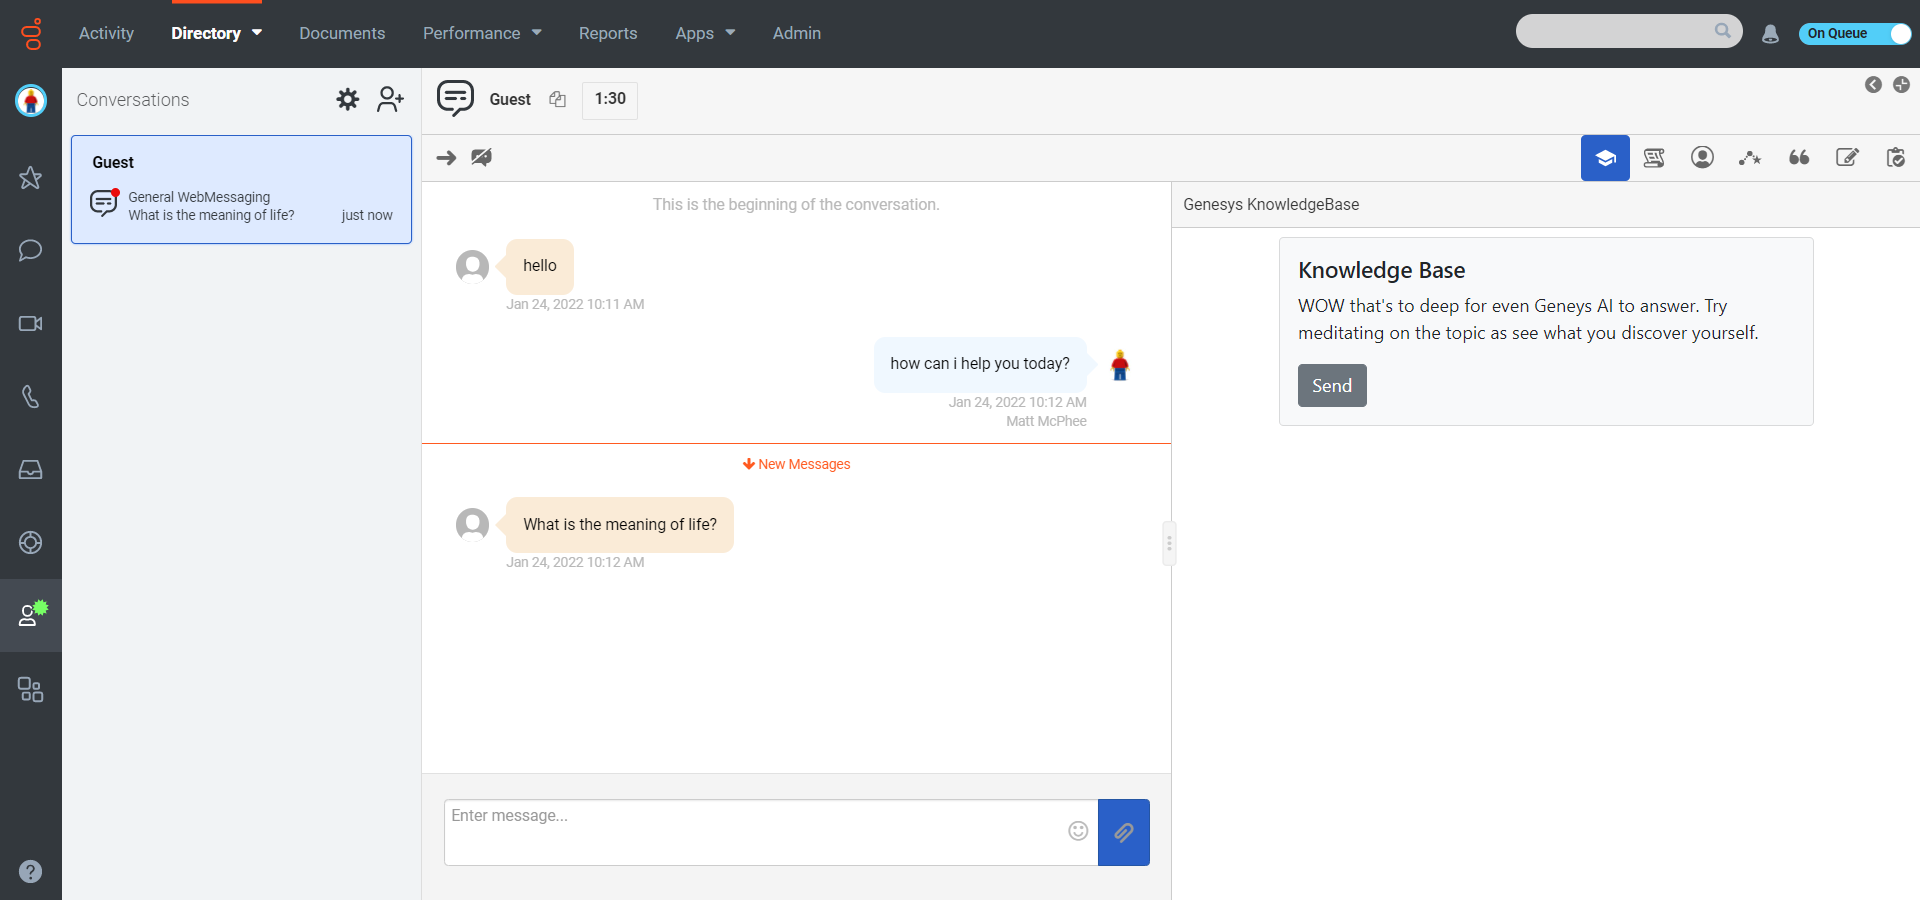
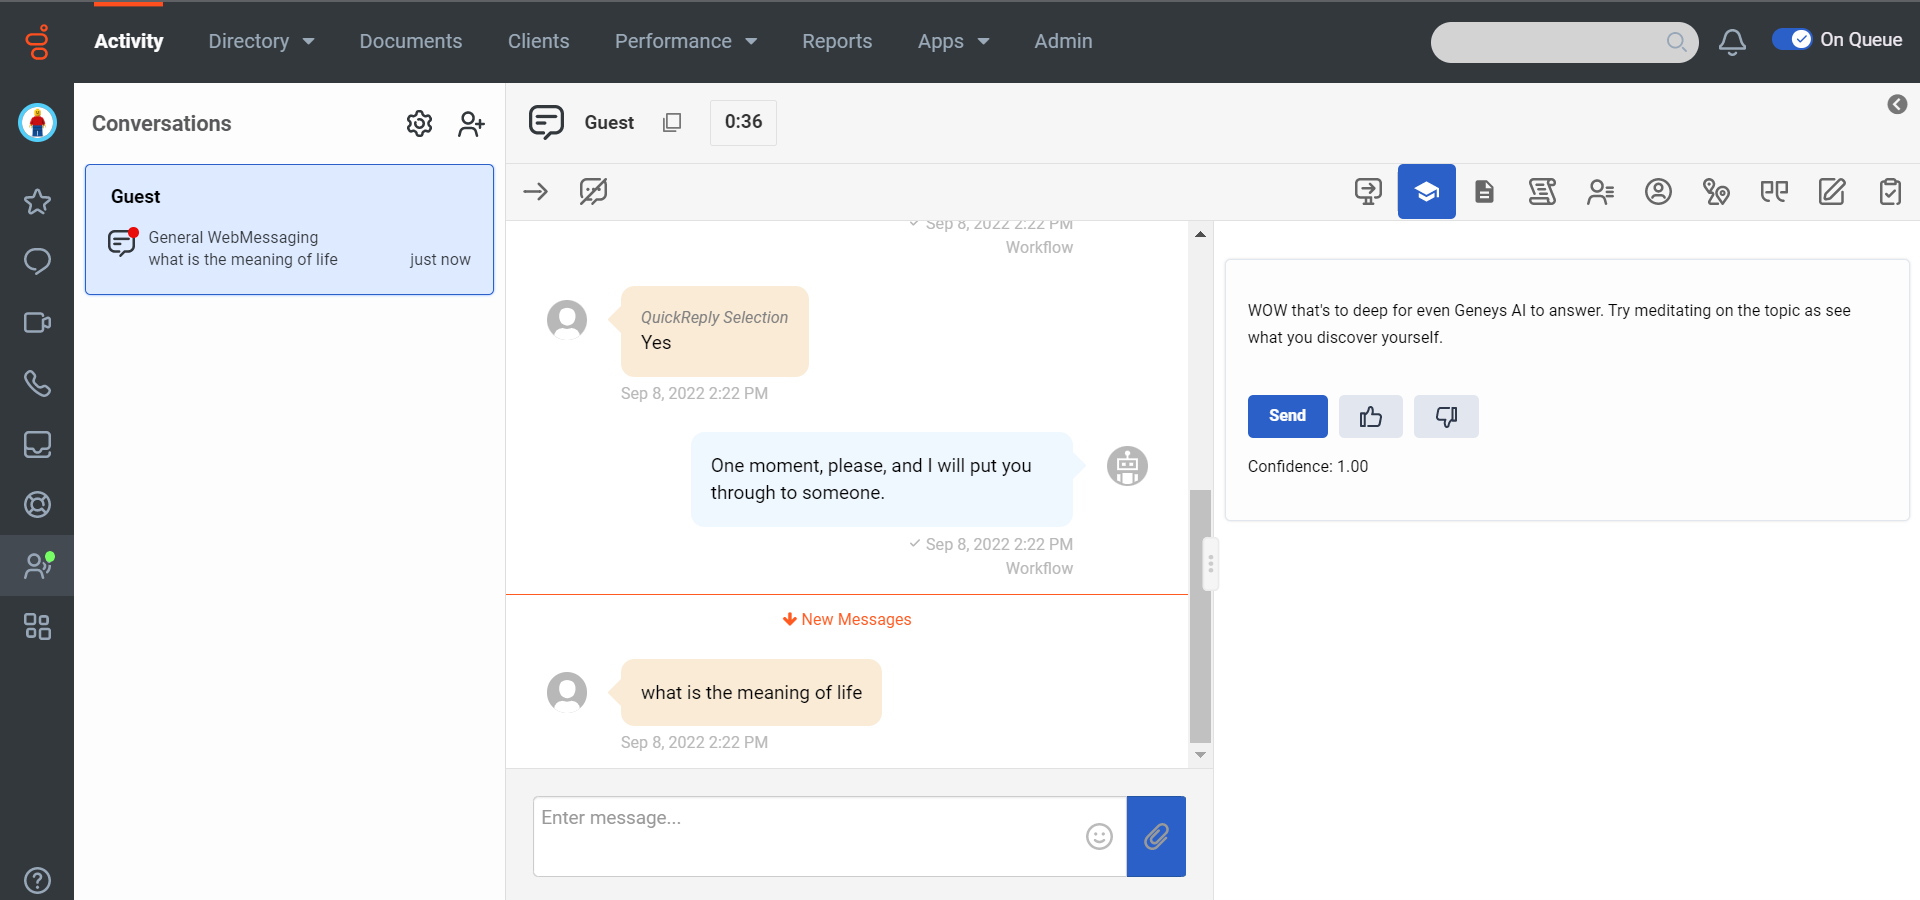
Updated readMe

diff --git a/README.md b/README.md
@@ -1,8 +1,8 @@
 # genesys-cloud-agent-kb
 
-This is designed as an example on how you can build out your own realtime Agent Assist example using Genesys Cloud native "Knowledge Base". For the media type in this example I'm using WebMessaging, You should already have WebMessaging configured and routing to your agent. The example is also using [Bootstrap](https://getbootstrap.com/docs/5.0/getting-started/introduction/) for rendering the CSS elements, to keep the JavaScript simple I'm using the Genesys Cloud [JS SDK.](https://developer.genesys.cloud/api/rest/client-libraries/javascript/)
+This is designed as an example on how you can build out your own realtime Agent Assist example using Genesys Cloud native "Support Center". For the media type in this example I'm using WebMessaging, You should already have WebMessaging configured and routing to your agent. The example is also using [Spark](https://spark.genesys.com/7978beca0/p/31f4cc-spark) for rendering the CSS elements, this is a Genesys created CSS set to make it easy to leverage the Genesys Cloud UI elements like buttons etc. To keep the JavaScript simple I'm using the Genesys Cloud [JS SDK.](https://developer.genesys.cloud/api/rest/client-libraries/javascript/)
 
-The Example HTML page is designed to work with your existing Genesys Cloud Knowledge Base "gc_kb" you need to of already set this up in Genesys as well as the "documents" this readMe is NOT going to cover these setup items. NOTE you can get the Knowledge Base Id from the URL when you have it open as an admin.
+The Example HTML page is designed to work with your existing Genesys Cloud Support Center which is accessed through the WebMessenger DeploymentId "gc_deploymentId" you need to of already set this up in Genesys as well as the "documents" this readMe is NOT going to cover these setup items. NOTE you can get the deploymentId from the WebMessenger Widget you have setup with Support Center already enabled.
 
 In realtime the conversation gets sent to the Knowledge Base to see if there is any matching responses. If there are they are then rendered to the agent with the option for the agent to send the article as a text String into the WebMessaging conversation.
 
@@ -16,10 +16,10 @@ Once you have Created your OAuth you will need to create a "Group" to enable the
 
 ![](/docs/images/screenShot3.png?raw=true)
 
-Now create the "Interaction Widget" Integration and under the configuration set the URL to the full URL including the parameters that are required from above: "clientId", "redirectURL", "region" and "gc_kb". Also select the "Communication Type Filtering" to webmessaging, to ensure it only runs on this media type.
+Now create the "Interaction Widget" Integration and under the configuration set the URL to the full URL including the parameters that are required from above: "clientId", "redirectURL", "region" and "gc_deploymentId". Also select the "Communication Type Filtering" to webmessaging, to ensure it only runs on this media type.
 
 ```
-http://localhost:3333/kb.html?gc_region=mypurecloud.com.au&gc_clientId=ENTER_YOUR_ID&gc_redirectUrl=http://localhost:3333/kb.html&gc_kb=ENTER_YOUR_ID
+http://localhost:3333/kb.html?gc_region=mypurecloud.com.au&gc_clientId=ENTER_YOUR_ID&gc_redirectUrl=http://localhost:3333/kb.html&gc_deplymentId=ENTER_YOUR_ID
 ```
 
 ![](/docs/images/screenShot4.png?raw=true)
@@ -39,3 +39,13 @@ Under the "Advanced" section of the integration object you can optional set the 
 This example has been created with only 1x WebMessaging interaction on the agent desktop at one time if a user has a higher Utilization then you will need to add in controls for that into this example.
 
 **NOTE:** If you create a KVP in the "localStorage" of your browser called "gc_debug" with the value of "true" this will enable extra debug logging to appear in the browser console log. This can be handy for testing. 
+
+# Support Center
+
+Ensure that you have Support Center enabled on your WebMessenger DeploymentId
+
+![](/docs/images/screenShot6.png?raw=true)
+
+Also the Articles are now going to be built out in the newer V2 Knowledge Interface. NOTE that currently in this latest commit I have built in support for the newer Knowledge Interface but only for Text and in the first "Paragraph". Future commits I will plan to add support for the array object and do a forEach and display images and videos etc. If you feel like it you can add the change a push a commit 👍
+
+![](/docs/images/screenShot7.png?raw=true)
